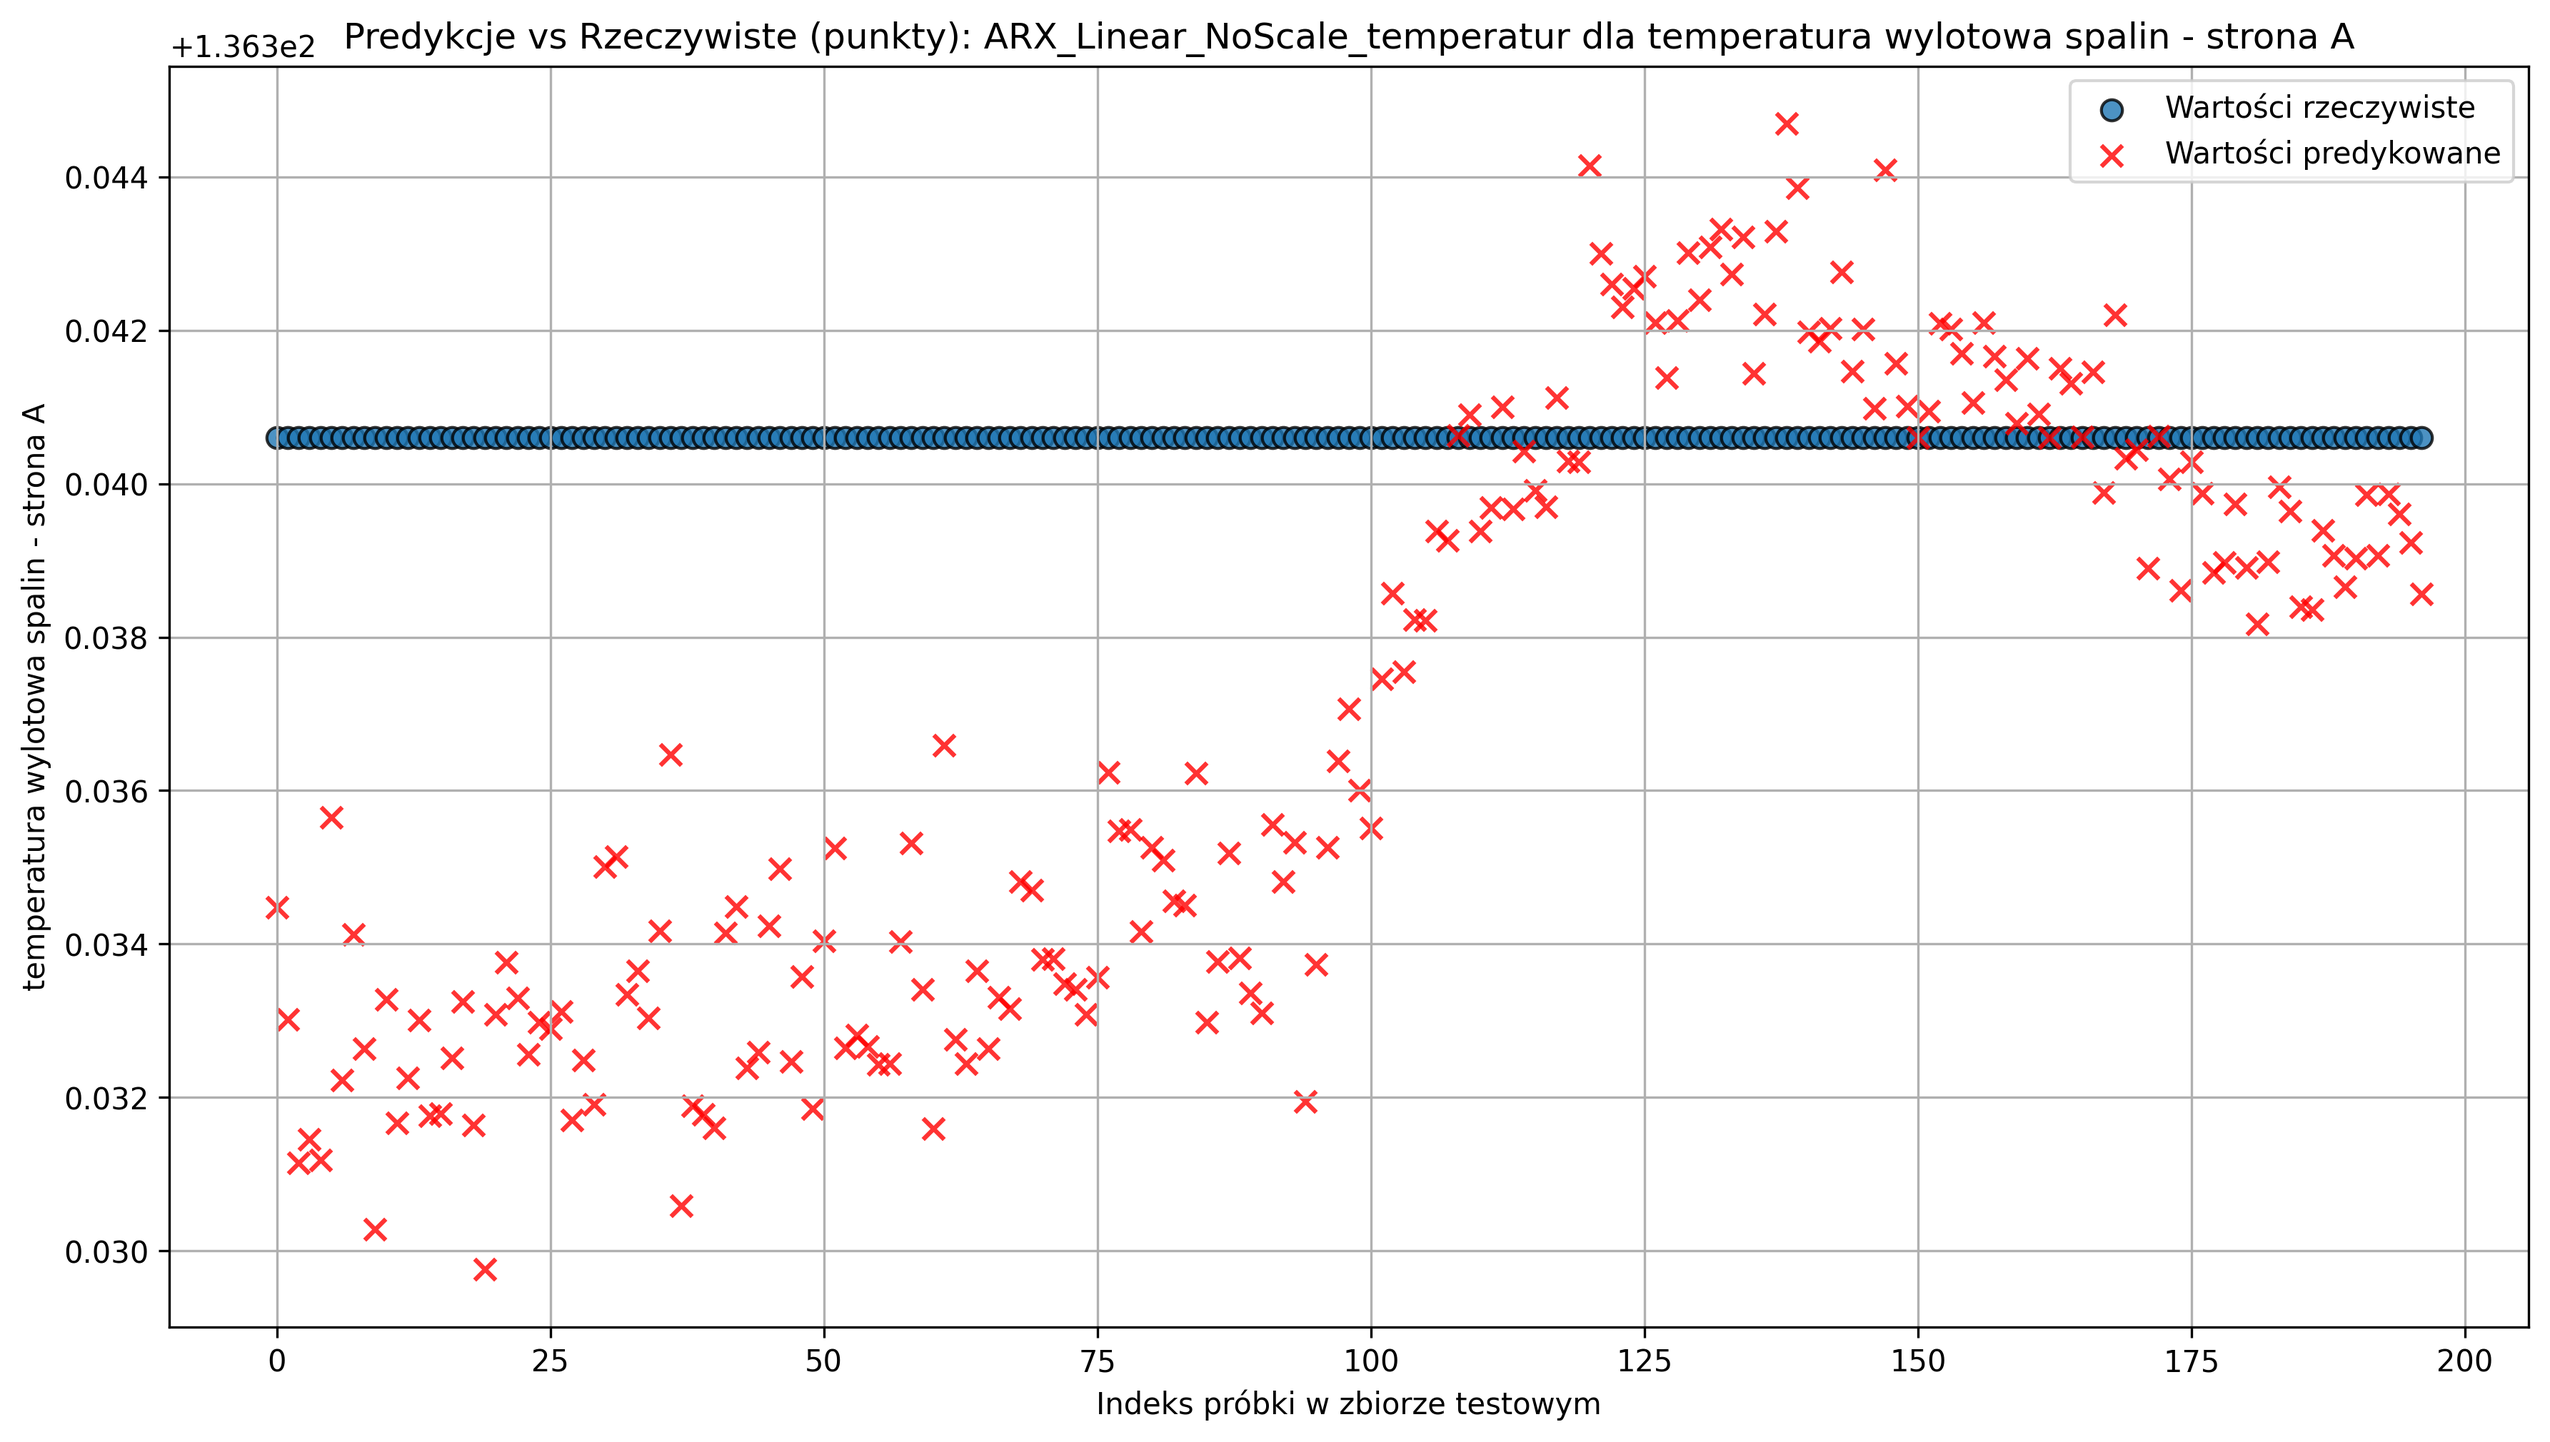
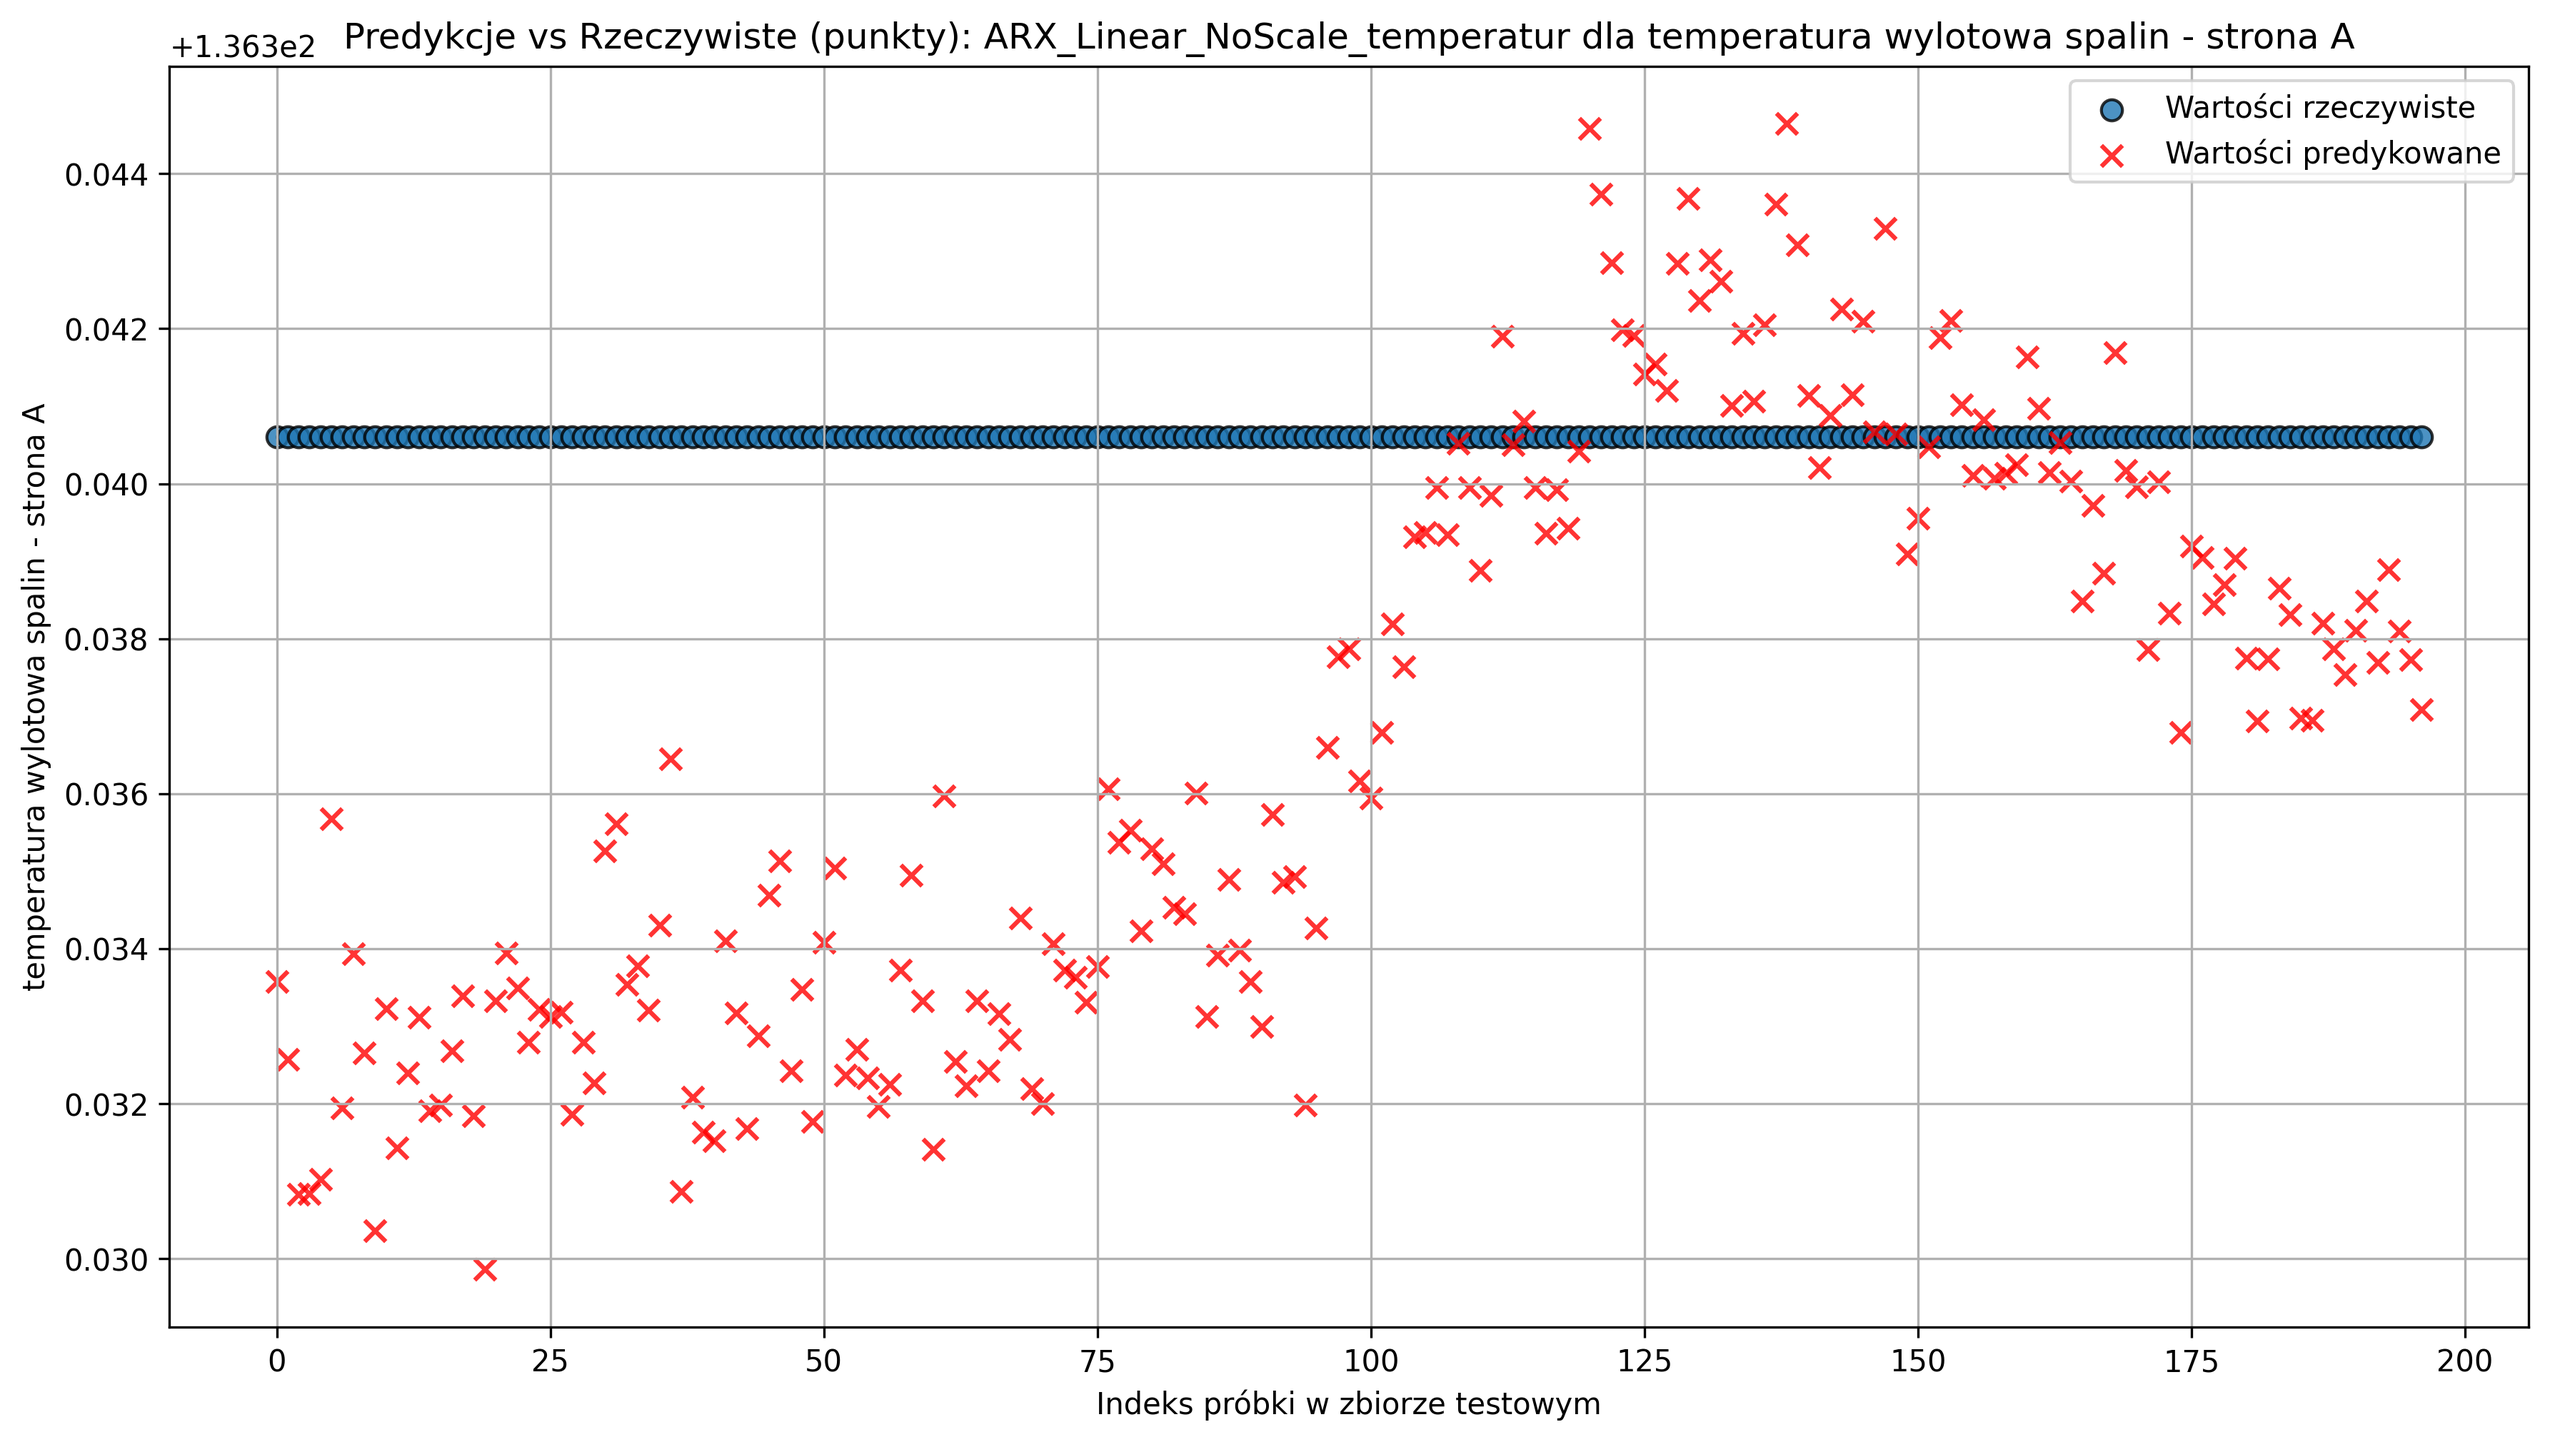
aaaaaaaa

diff --git a/src/modeling/advanced_models.py b/src/modeling/advanced_models.py
@@ -120,7 +120,7 @@ def train_evaluate_gradient_boosting_model(df: pd.DataFrame, feature_cols: list,
 def train_evaluate_dynamic_arx_model(
     df: pd.DataFrame, 
     input_features: list,
-    target_col: str, # ZMIANA: Pracujemy na jednym celu na raz
+    target_col: str,
     arx_params: dict,
     model_type: str,
     train_sessions: list,
@@ -129,31 +129,21 @@ def train_evaluate_dynamic_arx_model(
     plot_results: bool = True
 ):
     """
-    Trenuje i ocenia JEDEN dynamiczny model ARX dla pojedynczego wyjścia (SISO).
+    Uproszczona i poprawna wersja funkcji do trenowania modelu ARX.
     """
     na = arx_params.get('na', 2)
     nb = arx_params.get('nb', 2)
     nk = arx_params.get('nk', 1)
     poly_degree = arx_params.get('poly_degree', 2)
-    output_feature_list = [target_col]
 
     print(f"\n--- Przygotowanie danych ARX dla celu: {target_col} ---")
     
     active_inputs = [col for col in input_features if col in df.columns]
-    X_arx, y_arx = create_arx_data(
-        df=df.dropna(subset=active_inputs + output_feature_list),
-        input_cols=active_inputs,
-        output_cols=output_feature_list,
-        na=na, nb=nb, nk=nk
-    )
-
-    if X_arx.empty:
-        print(f"Nie udało się stworzyć danych ARX dla {target_col}. Pomijanie.")
-        return
-
+    
+    # JEDNO, POPRAWNE WYWOŁANIE create_arx_data
     full_arx_df, X_cols = create_arx_data(
-        df=df.dropna(subset=input_features + [target_col]),
-        input_cols=input_features,
+        df=df.dropna(subset=active_inputs + [target_col]),
+        input_cols=active_inputs,
         output_cols=[target_col],
         na=na, nb=nb, nk=nk
     )
@@ -162,7 +152,7 @@ def train_evaluate_dynamic_arx_model(
         print(f"Nie udało się stworzyć danych ARX dla {target_col}.")
         return
 
-    # Teraz podział jest prosty i pewny
+    # Podział na zbiory jest teraz prosty i pewny
     train_df = full_arx_df[full_arx_df['session_id'].isin(train_sessions)]
     test_df = full_arx_df[full_arx_df['session_id'].isin(test_sessions)]
 
@@ -170,17 +160,16 @@ def train_evaluate_dynamic_arx_model(
         print(f"Błąd: Zbiór treningowy lub testowy jest pusty dla {target_col}.")
         return
 
-    X_train, y_train = train_df[X_arx.columns], train_df[target_col]
-    X_test, y_test = test_df[X_arx.columns], test_df[target_col]
+    # POPRAWKA: Używamy X_cols, a nie X_arx.columns
+    X_train, y_train = train_df[X_cols], train_df[target_col]
+    X_test, y_test = test_df[X_cols], test_df[target_col]
 
     print(f"Dane treningowe z sesji: {train_sessions}. Liczba próbek: {len(X_train)}")
     print(f"Dane testowe z sesji: {test_sessions}. Liczba próbek: {len(X_test)}")
     
-    # ZMIANA: Budowanie pipeline'u BEZ StandardScaler
+    # Budowanie pipeline'u BEZ StandardScaler, zgodnie z prośbą
     if model_type == "dynamic_arx_linear":
-        pipeline = Pipeline([
-            ('linear_regression', LinearRegression())
-        ])
+        pipeline = Pipeline([('linear_regression', LinearRegression())])
         model_name = f"ARX_Linear_NoScale_{target_col.replace(' ', '_')[:10]}"
     elif model_type == "dynamic_arx_polynomial":
         pipeline = Pipeline([
@@ -196,18 +185,16 @@ def train_evaluate_dynamic_arx_model(
     pipeline.fit(X_train, y_train)
     predictions = pipeline.predict(X_test)
 
-    # Logika metryk...
+    # Logika metryk (przeniesiona z usuniętej _run_single_arx_evaluation)
     mse = mean_squared_error(y_test, predictions)
     r2 = r2_score(y_test, predictions)
     mae = mean_absolute_error(y_test, predictions)
     rmse = np.sqrt(mse)
     
-    n_test = len(y_test)
+    n_test, p_features = len(y_test), X_train.shape[1]
     if n_test == 0:
         print("Brak danych w zbiorze testowym do obliczenia metryk.")
         return
-
-    p_features = X_train.shape[1]
     if 'poly' in pipeline.named_steps:
         p_features = pipeline.named_steps['poly'].n_output_features_
         
@@ -221,7 +208,7 @@ def train_evaluate_dynamic_arx_model(
     if plot_results:
         plot_predictions_vs_actual_scatter(y_test, predictions, target_col, model_name, plots_dir)
         plot_predictions_over_samples(y_test, predictions, target_col, model_name, plots_dir)
-
+        
 
 def _run_single_arx_evaluation(X_train, y_train, X_test, y_test, model_pipeline, target_col, model_name, plots_dir, plot_results):
     """Helper function to fit, predict, and print metrics for a single ARX model run."""

diff --git a/src/main.py b/src/main.py
@@ -187,9 +187,9 @@ def main():
 
         # Pętla trenująca osobny model dla każdego celu
         for target_col, input_features in targets_and_features_arx.items():
+            # ZMIANA: Przekazujemy oryginalny combined_df bez resetowania indeksu
             train_evaluate_dynamic_arx_model(
-                # Używamy zresetowanego indeksu, aby .join działał poprawnie
-                df=combined_df,
+                df=combined_df, 
                 input_features=input_features,
                 target_col=target_col,
                 arx_params=ARX_PARAMS,
